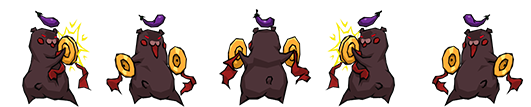
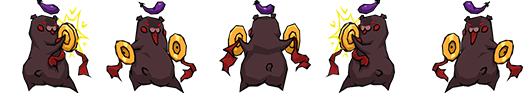
已修改        static/images/stay.png 已修改        static/images/weizhu.png 已修改        static/json/stay.js

diff --git a/static/json/stay.js b/static/json/stay.js
@@ -9,10 +9,10 @@
 	"stay": {
 		"totalFrame": 4,
 		"childrenFrame": [
-			{"res":"stay0000","x":0,"y":-15},
-			{"res":"stay0001","x":0,"y":-15},
-			{"res":"stay0002","x":0,"y":-15},
-			{"res":"stay0003","x":0,"y":-15}
+			{"res":"stay0000","x":0,"y":0},
+			{"res":"stay0001","x":0,"y":0},
+			{"res":"stay0002","x":0,"y":0},
+			{"res":"stay0003","x":0,"y":0}
 		]
 	}
 }
